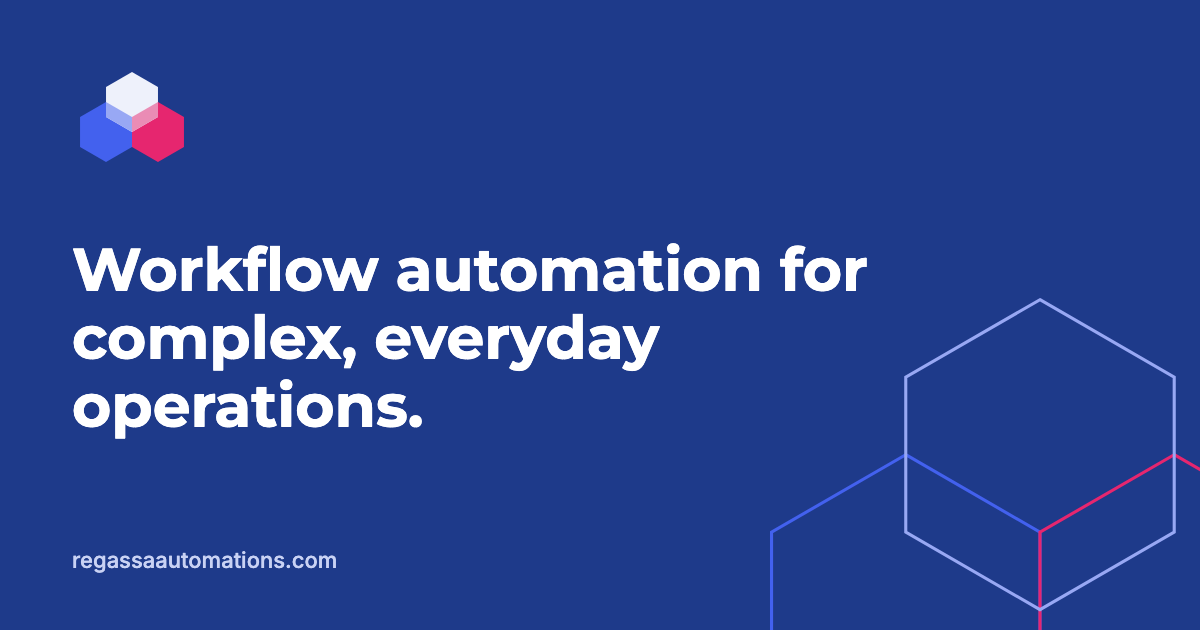
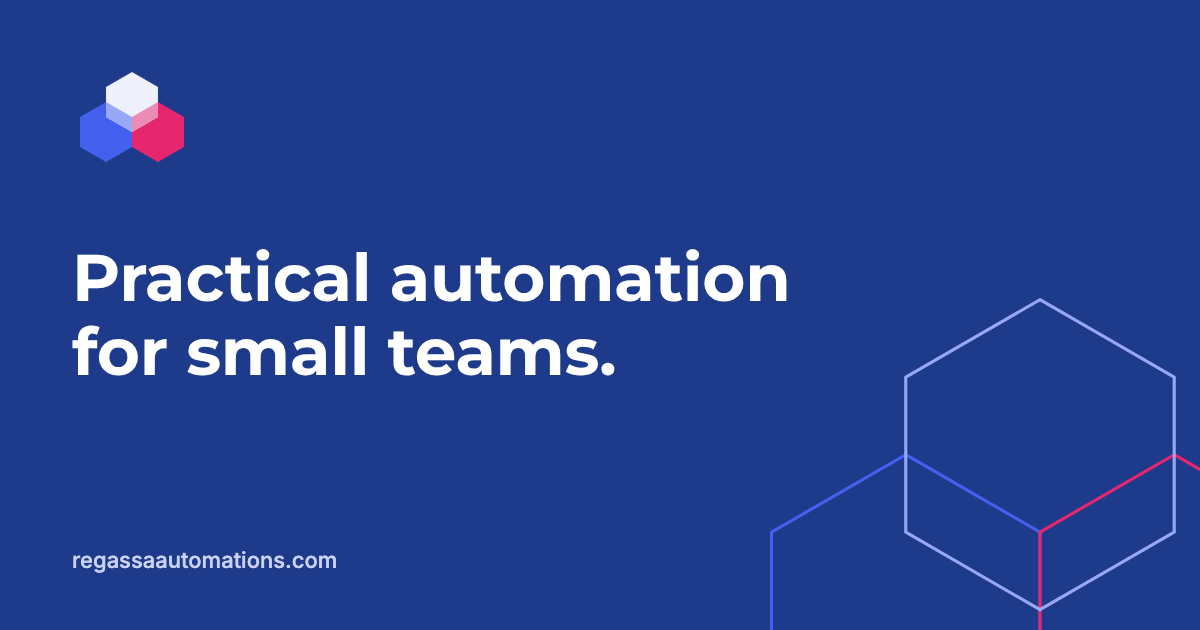
Copy follow-ups: background wording, container labels, new tagline
- Founder and About: 'patent preparation and prosecution at a top IP law
  firm' / 'patent technical specialist at a top IP law firm'.
- Freight: container labels use 40HQ and 45HQ throughout the text, to
  match the sample PDF and its screenshot (the pricing-editor screenshot's
  alt text keeps 40HC because the image shows it).
- Tagline 'Workflow automation for complex, everyday operations.' replaced
  with 'Practical automation for small teams.' in the footer, JSON-LD and
  sharing-image alt text; og-default.png regenerated with the new line.

Claude-Session: https://claude.ai/code/session_01LtnQGj2BprWmmVNFJi4byo

Changed region(s): [[0.0617, 0.3921, 0.74, 0.6937]]

diff --git a/src/data/home.ts b/src/data/home.ts
@@ -20,8 +20,7 @@ export const meta = {
     'Workflow automation for small teams: tools that run your process, systems that stay in sync, and reports and documents that build themselves.',
   // Generated in Phase 6 (og-default.png).
   ogImage: '/og/og-default.png',
-  ogImageAlt:
-    'Regassa Automations logo with the line: Workflow automation for complex, everyday operations.',
+  ogImageAlt: 'Regassa Automations logo with the line: Practical automation for small teams.',
 };
 
 export const hero = {
@@ -299,11 +298,11 @@ export const founder = {
   eyebrowMobile: 'Who you work with',
   h2: "I'm Ayantu Regassa",
   body: [
-    "I'm an engineer and software developer. Before automation, I worked in patent drafting and prosecution at a law firm, where accuracy, deadlines and document standards aren't optional. I bring the same care to your operations: I learn the process, including its exceptions, before I write any code.",
+    "I'm an engineer and software developer. Before automation, I worked in patent preparation and prosecution at a top IP law firm, where accuracy, deadlines and document standards aren't optional. I bring the same care to your operations: I learn the process, including its exceptions, before I write any code.",
     'Regassa Automations is just me. You work with me directly, from the first conversation to the handoff.',
   ],
   bodyMobile:
-    'I am an engineer and software developer who previously worked in patent drafting and prosecution at a law firm. I learn your process, including its exceptions, before I write any code. You work with me directly, from first conversation to handoff.',
+    'I am an engineer and software developer who previously worked in patent preparation and prosecution at a top IP law firm. I learn your process, including its exceptions, before I write any code. You work with me directly, from first conversation to handoff.',
   link: { label: 'More about my background and approach', href: '/about/' },
   linkMobile: 'More about my background',
 };

diff --git a/src/data/about.ts b/src/data/about.ts
@@ -12,8 +12,7 @@ export const meta = {
   ogTitle: 'About: Regassa Automations',
   ogDescription: 'You work directly with me, start to finish.',
   ogImage: '/og/og-default.png',
-  ogImageAlt:
-    'Regassa Automations logo with the line: Workflow automation for complex, everyday operations.',
+  ogImageAlt: 'Regassa Automations logo with the line: Practical automation for small teams.',
 };
 
 export const intro = {
@@ -45,9 +44,9 @@ export const background = {
     },
     {
       title: 'Patent technical work',
-      text: 'As a patent technical specialist at a law firm, I read dense technical material and described exactly what a system does and does not do, under strict accuracy and deadline standards. I apply the same precision to your business rules and their exceptions.',
+      text: 'As a patent technical specialist at a top IP law firm, I read dense technical material and described exactly what a system does and does not do, under strict accuracy and deadline standards. I apply the same precision to your business rules and their exceptions.',
       textMobile:
-        'As a patent technical specialist, I described exactly what a system does and does not do. I apply the same precision to your rules and exceptions.',
+        'As a patent technical specialist at a top IP law firm, I described exactly what a system does and does not do. I apply the same precision to your rules and exceptions.',
     },
   ],
 };

diff --git a/src/data/work/freight.ts b/src/data/work/freight.ts
@@ -502,8 +502,8 @@ export const technical = {
     columns: ['Service', 'Inherited', 'Change', 'Result'],
     rows: [
       ['FCL 20FT', '$2,350', '+$125', '$2,475'],
-      ['FCL 40HC', '$3,270', '+$175', '$3,445'],
-      ['FCL 45FT', '$4,140', '+$225', '$4,365'],
+      ['FCL 40HQ', '$3,270', '+$175', '$3,445'],
+      ['FCL 45HQ', '$4,140', '+$225', '$4,365'],
       ['LCL Door, per CBM', '$135.00', '+$7.50', '$142.50'],
     ],
   },
@@ -543,11 +543,11 @@ export const technical = {
         { text: '$2,350', mono: true },
         ' to ',
         { text: '$2,475', mono: true },
-        '; 40HC ',
+        '; 40HQ ',
         { text: '$3,270', mono: true },
         ' to ',
         { text: '$3,445', mono: true },
-        '; 45FT ',
+        '; 45HQ ',
         { text: '$4,140', mono: true },
         ' to ',
         { text: '$4,365', mono: true },

diff --git a/src/data/services.ts b/src/data/services.ts
@@ -14,8 +14,7 @@ export const meta = {
   ogDescription:
     'Tools that run your process, systems that stay in sync, and reports and documents that build themselves. Clear pricing before any work begins.',
   ogImage: '/og/og-default.png',
-  ogImageAlt:
-    'Regassa Automations logo with the line: Workflow automation for complex, everyday operations.',
+  ogImageAlt: 'Regassa Automations logo with the line: Practical automation for small teams.',
 };
 
 export const intro = {

diff --git a/src/data/work/volunteers.ts b/src/data/work/volunteers.ts
@@ -15,8 +15,7 @@ export const meta = {
   ogDescription:
     "An Apps Script and SignUpGenius API integration that routes each sign-up to its location's roster and merges returning volunteers.",
   ogImage: '/og/og-default.png',
-  ogImageAlt:
-    'Regassa Automations logo with the line: Workflow automation for complex, everyday operations.',
+  ogImageAlt: 'Regassa Automations logo with the line: Practical automation for small teams.',
 };
 
 export const hero = {

diff --git a/src/data/work/pr-sync.ts b/src/data/work/pr-sync.ts
@@ -14,8 +14,7 @@ export const meta = {
   ogDescription:
     "A Google Apps Script sync that publishes each opportunity to the right client's tracker and follows it from Pipeline to Secured.",
   ogImage: '/og/og-default.png',
-  ogImageAlt:
-    'Regassa Automations logo with the line: Workflow automation for complex, everyday operations.',
+  ogImageAlt: 'Regassa Automations logo with the line: Practical automation for small teams.',
 };
 
 export const hero = {

diff --git a/src/data/work/quotes.ts b/src/data/work/quotes.ts
@@ -15,8 +15,7 @@ export const meta = {
   ogDescription:
     'A Python cleanup with a scored duplicates report, and a generated Word reference organized by author.',
   ogImage: '/og/og-default.png',
-  ogImageAlt:
-    'Regassa Automations logo with the line: Workflow automation for complex, everyday operations.',
+  ogImageAlt: 'Regassa Automations logo with the line: Practical automation for small teams.',
 };
 
 const franklin: PaperEntry = {

diff --git a/tests/seo.spec.ts b/tests/seo.spec.ts
@@ -78,7 +78,7 @@ test.describe('structured data', () => {
       name: 'Regassa Automations',
       url: `${SITE}/`,
       logo: `${SITE}/og/logo-mark.png`,
-      description: 'Workflow automation for complex, everyday operations.',
+      description: 'Practical automation for small teams.',
       founder: { name: 'Ayantu Regassa' },
       address: { addressLocality: 'Portland', addressRegion: 'ME', addressCountry: 'US' },
     });

diff --git a/src/data/portfolio.ts b/src/data/portfolio.ts
@@ -11,8 +11,7 @@ export const meta = {
   ogTitle: 'Portfolio: Regassa Automations',
   ogDescription: 'Five workflows, from messy inputs to dependable outputs.',
   ogImage: '/og/og-default.png',
-  ogImageAlt:
-    'Regassa Automations logo with the line: Workflow automation for complex, everyday operations.',
+  ogImageAlt: 'Regassa Automations logo with the line: Practical automation for small teams.',
 };
 
 export const intro = {

diff --git a/src/lib/jsonld.ts b/src/lib/jsonld.ts
@@ -19,7 +19,7 @@ export function professionalService() {
     url: `${SITE}/`,
     logo: abs('/og/logo-mark.png'),
     image: abs('/og/og-default.png'),
-    description: 'Workflow automation for complex, everyday operations.',
+    description: 'Practical automation for small teams.',
     founder: { '@type': 'Person', name: 'Ayantu Regassa' },
     address: {
       '@type': 'PostalAddress',

diff --git a/src/config/site.ts b/src/config/site.ts
@@ -47,7 +47,7 @@ export const footerSiteLinks = [
 
 /** Footer copy from _handoff/content/home.md (Footer). */
 export const footerCopy = {
-  tagline: 'Workflow automation for complex, everyday operations. Based in Portland, Maine.',
+  tagline: 'Practical automation for small teams. Based in Portland, Maine.',
   businessName: 'Regassa Automations',
 } as const;
 
